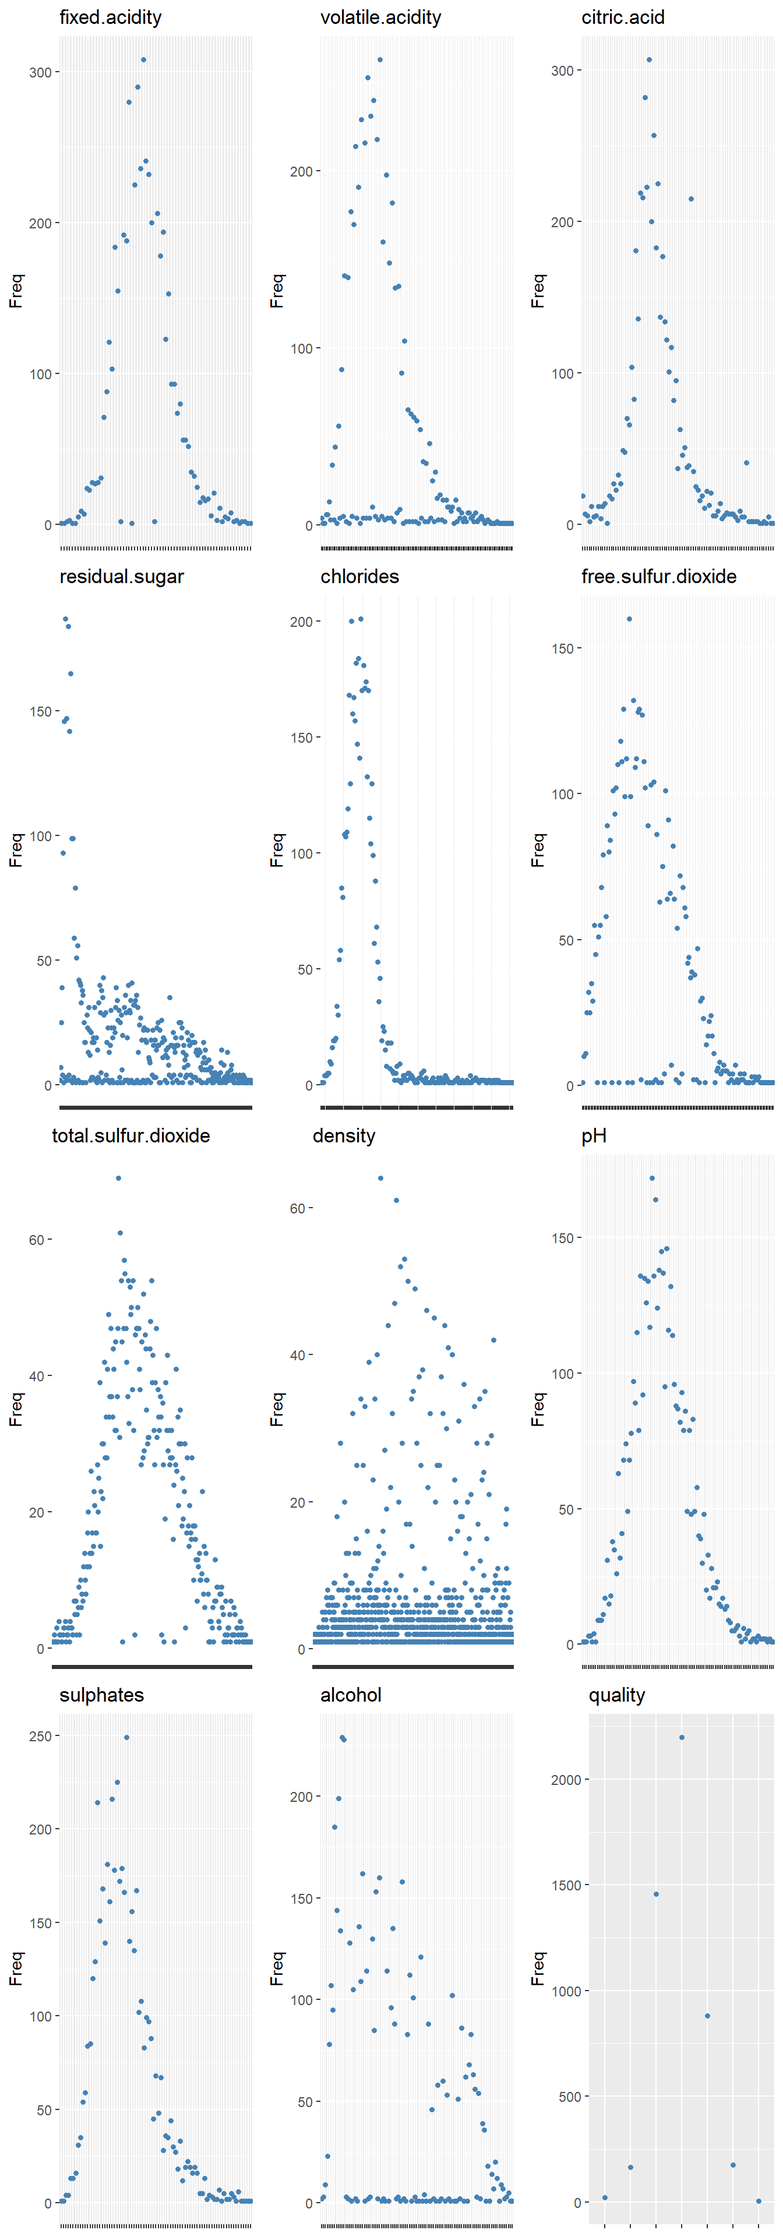
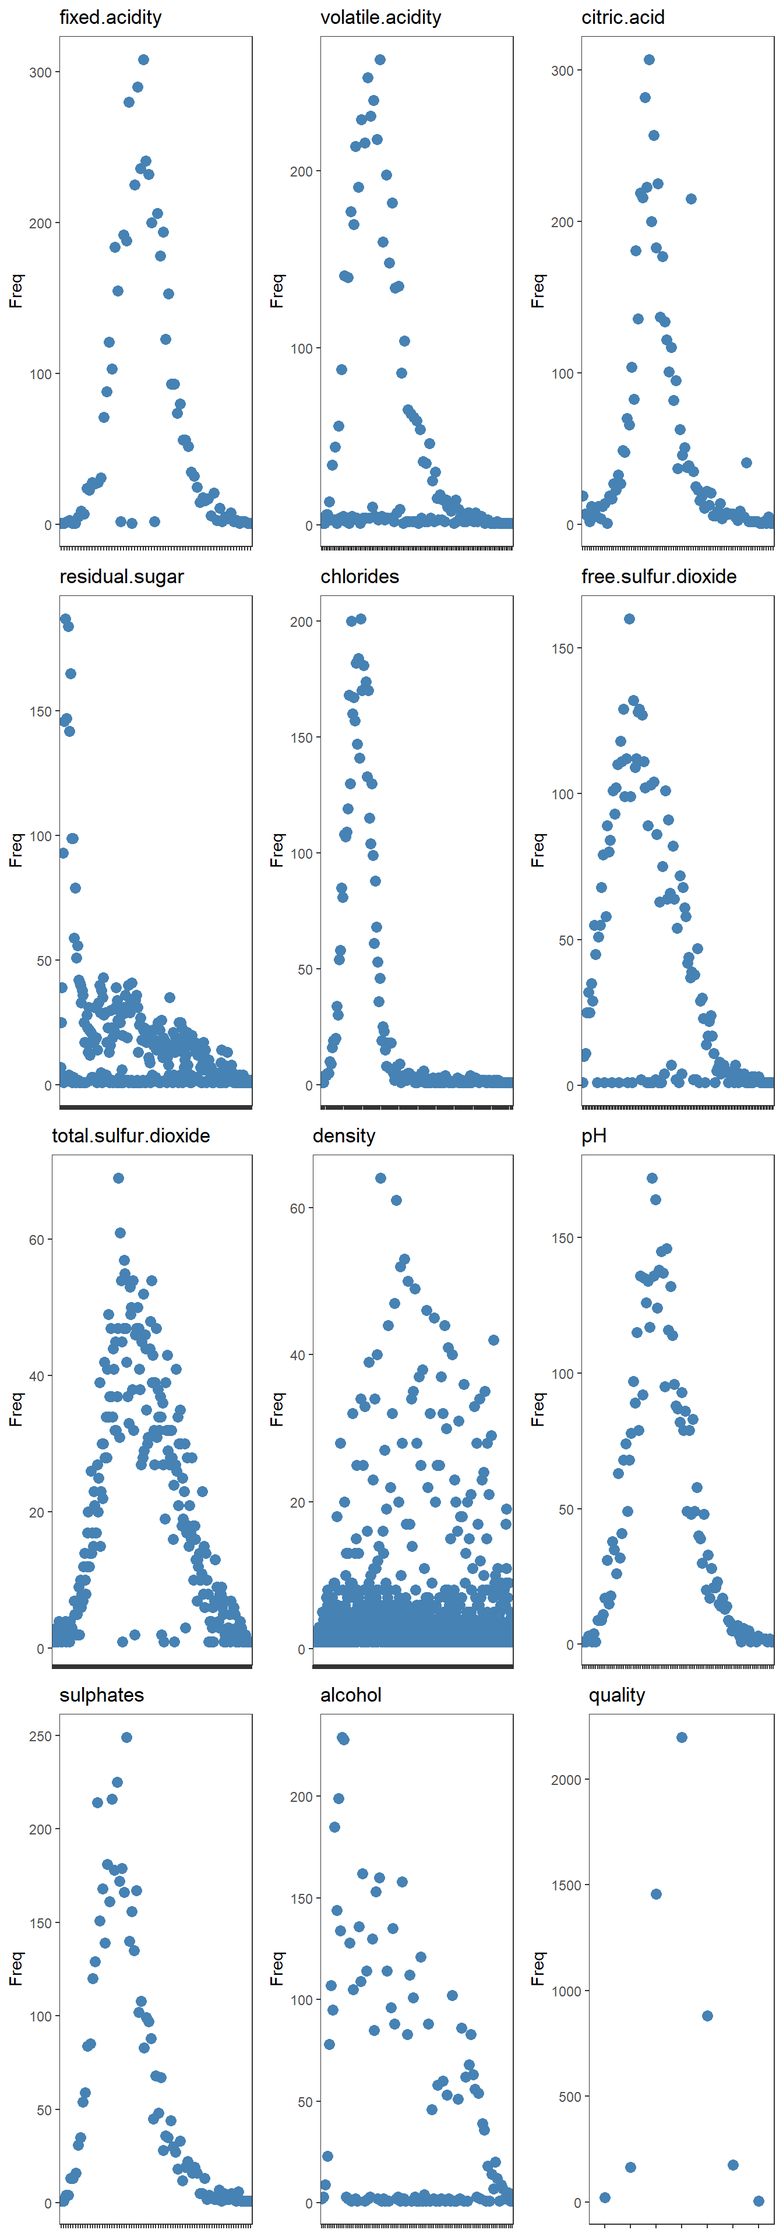
update analysis

diff --git a/_site/src/analysis.html b/_site/src/analysis.html
@@ -504,15 +504,17 @@ pre > code.sourceCode > span > a:first-child::before { text-decoration: underlin
 <span id="cb18-5"><a href="#cb18-5" aria-hidden="true" tabindex="-1"></a><span class="cf">for</span>(i <span class="cf">in</span> <span class="dv">1</span><span class="sc">:</span><span class="fu">ncol</span>(wine.data)) {</span>
 <span id="cb18-6"><a href="#cb18-6" aria-hidden="true" tabindex="-1"></a>  gg <span class="ot">&lt;-</span> <span class="fu">ggplot</span>(<span class="at">data =</span> <span class="fu">as.data.frame</span>(<span class="fu">table</span>(wine.data[, i])),</span>
 <span id="cb18-7"><a href="#cb18-7" aria-hidden="true" tabindex="-1"></a>               <span class="fu">aes</span>(<span class="at">x =</span> Var1, <span class="at">y =</span> Freq)) <span class="sc">+</span></span>
-<span id="cb18-8"><a href="#cb18-8" aria-hidden="true" tabindex="-1"></a>    <span class="fu">geom_point</span>(<span class="at">shape =</span> <span class="dv">20</span>, <span class="at">size =</span> <span class="dv">2</span>, <span class="at">color =</span> <span class="st">"steelblue"</span>) <span class="sc">+</span></span>
+<span id="cb18-8"><a href="#cb18-8" aria-hidden="true" tabindex="-1"></a>    <span class="fu">geom_point</span>(<span class="at">size =</span> <span class="dv">3</span>, <span class="at">color =</span> <span class="st">"steelblue"</span>) <span class="sc">+</span></span>
 <span id="cb18-9"><a href="#cb18-9" aria-hidden="true" tabindex="-1"></a>    <span class="fu">ggtitle</span>(<span class="fu">colnames</span>(wine.data)[i]) <span class="sc">+</span></span>
-<span id="cb18-10"><a href="#cb18-10" aria-hidden="true" tabindex="-1"></a>    <span class="fu">theme</span>(<span class="at">axis.text.x =</span> <span class="fu">element_blank</span>(), </span>
-<span id="cb18-11"><a href="#cb18-11" aria-hidden="true" tabindex="-1"></a>          <span class="at">axis.title.x =</span> <span class="fu">element_blank</span>())</span>
-<span id="cb18-12"><a href="#cb18-12" aria-hidden="true" tabindex="-1"></a>  gg_list[[i]] <span class="ot">&lt;-</span> gg</span>
-<span id="cb18-13"><a href="#cb18-13" aria-hidden="true" tabindex="-1"></a>}</span>
-<span id="cb18-14"><a href="#cb18-14" aria-hidden="true" tabindex="-1"></a></span>
-<span id="cb18-15"><a href="#cb18-15" aria-hidden="true" tabindex="-1"></a><span class="co"># combine ggplot objects using ggarrange</span></span>
-<span id="cb18-16"><a href="#cb18-16" aria-hidden="true" tabindex="-1"></a><span class="fu">ggarrange</span>(<span class="at">plotlist =</span> gg_list, <span class="at">ncol =</span> <span class="dv">3</span>, <span class="at">nrow =</span> <span class="dv">4</span>)</span></code><button title="Copy to Clipboard" class="code-copy-button"><i class="bi"></i></button></pre></div>
+<span id="cb18-10"><a href="#cb18-10" aria-hidden="true" tabindex="-1"></a>    <span class="fu">theme_bw</span>()<span class="sc">+</span></span>
+<span id="cb18-11"><a href="#cb18-11" aria-hidden="true" tabindex="-1"></a>    <span class="fu">theme</span>(<span class="at">panel.grid =</span> <span class="fu">element_blank</span>(),</span>
+<span id="cb18-12"><a href="#cb18-12" aria-hidden="true" tabindex="-1"></a>          <span class="at">axis.text.x =</span> <span class="fu">element_blank</span>(), </span>
+<span id="cb18-13"><a href="#cb18-13" aria-hidden="true" tabindex="-1"></a>          <span class="at">axis.title.x =</span> <span class="fu">element_blank</span>())</span>
+<span id="cb18-14"><a href="#cb18-14" aria-hidden="true" tabindex="-1"></a>  gg_list[[i]] <span class="ot">&lt;-</span> gg</span>
+<span id="cb18-15"><a href="#cb18-15" aria-hidden="true" tabindex="-1"></a>}</span>
+<span id="cb18-16"><a href="#cb18-16" aria-hidden="true" tabindex="-1"></a></span>
+<span id="cb18-17"><a href="#cb18-17" aria-hidden="true" tabindex="-1"></a><span class="co"># combine ggplot objects using ggarrange</span></span>
+<span id="cb18-18"><a href="#cb18-18" aria-hidden="true" tabindex="-1"></a><span class="fu">ggarrange</span>(<span class="at">plotlist =</span> gg_list, <span class="at">ncol =</span> <span class="dv">3</span>, <span class="at">nrow =</span> <span class="dv">4</span>)</span></code><button title="Copy to Clipboard" class="code-copy-button"><i class="bi"></i></button></pre></div>
 </details>
 <div class="cell-output-display">
 <div class="quarto-figure quarto-figure-center">
@@ -1152,59 +1154,61 @@ window.document.addEventListener("DOMContentLoaded", function (event) {
 <span id="cb22-153"><a href="#cb22-153" aria-hidden="true" tabindex="-1"></a><span class="cf">for</span>(i <span class="cf">in</span> <span class="dv">1</span><span class="sc">:</span><span class="fu">ncol</span>(wine.data)) {</span>
 <span id="cb22-154"><a href="#cb22-154" aria-hidden="true" tabindex="-1"></a>  gg <span class="ot">&lt;-</span> <span class="fu">ggplot</span>(<span class="at">data =</span> <span class="fu">as.data.frame</span>(<span class="fu">table</span>(wine.data[, i])),</span>
 <span id="cb22-155"><a href="#cb22-155" aria-hidden="true" tabindex="-1"></a>               <span class="fu">aes</span>(<span class="at">x =</span> Var1, <span class="at">y =</span> Freq)) <span class="sc">+</span></span>
-<span id="cb22-156"><a href="#cb22-156" aria-hidden="true" tabindex="-1"></a>    <span class="fu">geom_point</span>(<span class="at">shape =</span> <span class="dv">20</span>, <span class="at">size =</span> <span class="dv">2</span>, <span class="at">color =</span> <span class="st">"steelblue"</span>) <span class="sc">+</span></span>
+<span id="cb22-156"><a href="#cb22-156" aria-hidden="true" tabindex="-1"></a>    <span class="fu">geom_point</span>(<span class="at">size =</span> <span class="dv">3</span>, <span class="at">color =</span> <span class="st">"steelblue"</span>) <span class="sc">+</span></span>
 <span id="cb22-157"><a href="#cb22-157" aria-hidden="true" tabindex="-1"></a>    <span class="fu">ggtitle</span>(<span class="fu">colnames</span>(wine.data)[i]) <span class="sc">+</span></span>
-<span id="cb22-158"><a href="#cb22-158" aria-hidden="true" tabindex="-1"></a>    <span class="fu">theme</span>(<span class="at">axis.text.x =</span> <span class="fu">element_blank</span>(), </span>
-<span id="cb22-159"><a href="#cb22-159" aria-hidden="true" tabindex="-1"></a>          <span class="at">axis.title.x =</span> <span class="fu">element_blank</span>())</span>
-<span id="cb22-160"><a href="#cb22-160" aria-hidden="true" tabindex="-1"></a>  gg_list[[i]] <span class="ot">&lt;-</span> gg</span>
-<span id="cb22-161"><a href="#cb22-161" aria-hidden="true" tabindex="-1"></a>}</span>
-<span id="cb22-162"><a href="#cb22-162" aria-hidden="true" tabindex="-1"></a></span>
-<span id="cb22-163"><a href="#cb22-163" aria-hidden="true" tabindex="-1"></a><span class="co"># combine ggplot objects using ggarrange</span></span>
-<span id="cb22-164"><a href="#cb22-164" aria-hidden="true" tabindex="-1"></a><span class="fu">ggarrange</span>(<span class="at">plotlist =</span> gg_list, <span class="at">ncol =</span> <span class="dv">3</span>, <span class="at">nrow =</span> <span class="dv">4</span>)</span>
-<span id="cb22-165"><a href="#cb22-165" aria-hidden="true" tabindex="-1"></a><span class="in">```</span></span>
-<span id="cb22-166"><a href="#cb22-166" aria-hidden="true" tabindex="-1"></a></span>
-<span id="cb22-167"><a href="#cb22-167" aria-hidden="true" tabindex="-1"></a></span>
-<span id="cb22-168"><a href="#cb22-168" aria-hidden="true" tabindex="-1"></a><span class="in">```{r, echo=FALSE}</span></span>
-<span id="cb22-169"><a href="#cb22-169" aria-hidden="true" tabindex="-1"></a><span class="co"># Remove unnecessary variables</span></span>
-<span id="cb22-170"><a href="#cb22-170" aria-hidden="true" tabindex="-1"></a><span class="fu">remove</span>(grid_arr)</span>
-<span id="cb22-171"><a href="#cb22-171" aria-hidden="true" tabindex="-1"></a><span class="fu">remove</span>(plt)</span>
-<span id="cb22-172"><a href="#cb22-172" aria-hidden="true" tabindex="-1"></a><span class="fu">remove</span>(i)</span>
-<span id="cb22-173"><a href="#cb22-173" aria-hidden="true" tabindex="-1"></a><span class="fu">remove</span>(num_plots)</span>
-<span id="cb22-174"><a href="#cb22-174" aria-hidden="true" tabindex="-1"></a><span class="fu">remove</span>(num_rows)</span>
-<span id="cb22-175"><a href="#cb22-175" aria-hidden="true" tabindex="-1"></a><span class="in">```</span></span>
-<span id="cb22-176"><a href="#cb22-176" aria-hidden="true" tabindex="-1"></a></span>
-<span id="cb22-177"><a href="#cb22-177" aria-hidden="true" tabindex="-1"></a><span class="fu">## Data Relationships</span></span>
-<span id="cb22-178"><a href="#cb22-178" aria-hidden="true" tabindex="-1"></a><span class="in">```{r relation_plot, fig.width=10, fig.height=5, message=FALSE}</span></span>
-<span id="cb22-179"><a href="#cb22-179" aria-hidden="true" tabindex="-1"></a>reshape2<span class="sc">::</span><span class="fu">melt</span>(wine.data_cleaned[, <span class="dv">1</span><span class="sc">:</span><span class="dv">12</span>], <span class="st">"good"</span>) <span class="sc">%&gt;%</span> </span>
-<span id="cb22-180"><a href="#cb22-180" aria-hidden="true" tabindex="-1"></a>  <span class="fu">ggplot</span>(<span class="fu">aes</span>(value, good, <span class="at">color =</span> variable)) <span class="sc">+</span>  </span>
-<span id="cb22-181"><a href="#cb22-181" aria-hidden="true" tabindex="-1"></a>  <span class="fu">geom_point</span>() <span class="sc">+</span> </span>
-<span id="cb22-182"><a href="#cb22-182" aria-hidden="true" tabindex="-1"></a>  <span class="fu">geom_smooth</span>(<span class="fu">aes</span>(value, good, <span class="at">colour=</span>variable), <span class="at">method=</span>lm, <span class="at">se=</span><span class="cn">FALSE</span>)<span class="sc">+</span></span>
-<span id="cb22-183"><a href="#cb22-183" aria-hidden="true" tabindex="-1"></a>  <span class="fu">facet_wrap</span>(.<span class="sc">~</span>variable, <span class="at">scales =</span> <span class="st">"free"</span>)</span>
-<span id="cb22-184"><a href="#cb22-184" aria-hidden="true" tabindex="-1"></a></span>
-<span id="cb22-185"><a href="#cb22-185" aria-hidden="true" tabindex="-1"></a><span class="co"># Collinearity between Attributes</span></span>
-<span id="cb22-186"><a href="#cb22-186" aria-hidden="true" tabindex="-1"></a><span class="fu">cor</span>(wine.data_cleaned) <span class="sc">%&gt;%</span> </span>
-<span id="cb22-187"><a href="#cb22-187" aria-hidden="true" tabindex="-1"></a>  corrplot<span class="sc">::</span><span class="fu">corrplot</span>(<span class="at">method =</span> <span class="st">'number'</span>,  <span class="at">type =</span> <span class="st">"lower"</span>, <span class="at">tl.col =</span> <span class="st">"steelblue"</span>, <span class="at">number.cex =</span> <span class="fl">0.5</span>)</span>
-<span id="cb22-188"><a href="#cb22-188" aria-hidden="true" tabindex="-1"></a><span class="in">```</span></span>
-<span id="cb22-189"><a href="#cb22-189" aria-hidden="true" tabindex="-1"></a></span>
-<span id="cb22-190"><a href="#cb22-190" aria-hidden="true" tabindex="-1"></a><span class="fu">## Data Split</span></span>
-<span id="cb22-191"><a href="#cb22-191" aria-hidden="true" tabindex="-1"></a><span class="in">```{r data_split}</span></span>
-<span id="cb22-192"><a href="#cb22-192" aria-hidden="true" tabindex="-1"></a><span class="fu">set.seed</span>(<span class="dv">1234</span>)</span>
-<span id="cb22-193"><a href="#cb22-193" aria-hidden="true" tabindex="-1"></a><span class="co"># Splitting the dataset into train and test (7/10th for train remaining for test)</span></span>
-<span id="cb22-194"><a href="#cb22-194" aria-hidden="true" tabindex="-1"></a>inTrain <span class="ot">&lt;-</span> caret<span class="sc">::</span><span class="fu">createDataPartition</span>(wine.data_cleaned<span class="sc">$</span>good, <span class="at">p =</span> <span class="dv">7</span><span class="sc">/</span><span class="dv">10</span>, <span class="at">list =</span> F)</span>
-<span id="cb22-195"><a href="#cb22-195" aria-hidden="true" tabindex="-1"></a>train <span class="ot">&lt;-</span> wine.data_cleaned[inTrain,]</span>
-<span id="cb22-196"><a href="#cb22-196" aria-hidden="true" tabindex="-1"></a>test  <span class="ot">&lt;-</span> wine.data_cleaned[<span class="sc">-</span>inTrain,]</span>
-<span id="cb22-197"><a href="#cb22-197" aria-hidden="true" tabindex="-1"></a></span>
-<span id="cb22-198"><a href="#cb22-198" aria-hidden="true" tabindex="-1"></a></span>
-<span id="cb22-199"><a href="#cb22-199" aria-hidden="true" tabindex="-1"></a><span class="co"># Convert the outcome variable to a factor with two levels</span></span>
-<span id="cb22-200"><a href="#cb22-200" aria-hidden="true" tabindex="-1"></a>train<span class="sc">$</span>good <span class="ot">&lt;-</span> <span class="fu">as.factor</span>(train<span class="sc">$</span>good)</span>
-<span id="cb22-201"><a href="#cb22-201" aria-hidden="true" tabindex="-1"></a>test<span class="sc">$</span>good <span class="ot">&lt;-</span> <span class="fu">as.factor</span>(test<span class="sc">$</span>good)</span>
-<span id="cb22-202"><a href="#cb22-202" aria-hidden="true" tabindex="-1"></a></span>
-<span id="cb22-203"><a href="#cb22-203" aria-hidden="true" tabindex="-1"></a><span class="co"># Save data for building models in the next step</span></span>
-<span id="cb22-204"><a href="#cb22-204" aria-hidden="true" tabindex="-1"></a><span class="fu">save</span>(wine.data, <span class="at">file =</span> <span class="st">"dataset</span><span class="sc">\\</span><span class="st">wine.data.Rdata"</span>)</span>
-<span id="cb22-205"><a href="#cb22-205" aria-hidden="true" tabindex="-1"></a><span class="fu">save</span>(wine.data_cleaned, <span class="at">file =</span> <span class="st">"dataset</span><span class="sc">\\</span><span class="st">wine.data_cleaned.Rdata"</span>)</span>
-<span id="cb22-206"><a href="#cb22-206" aria-hidden="true" tabindex="-1"></a><span class="fu">save</span>(train, <span class="at">file =</span> <span class="st">"dataset</span><span class="sc">\\</span><span class="st">train.Rdata"</span>)</span>
-<span id="cb22-207"><a href="#cb22-207" aria-hidden="true" tabindex="-1"></a><span class="fu">save</span>(test, <span class="at">file =</span> <span class="st">"dataset</span><span class="sc">\\</span><span class="st">test.Rdata"</span>)</span>
-<span id="cb22-208"><a href="#cb22-208" aria-hidden="true" tabindex="-1"></a><span class="in">```</span></span></code><button title="Copy to Clipboard" class="code-copy-button"><i class="bi"></i></button></pre></div>
+<span id="cb22-158"><a href="#cb22-158" aria-hidden="true" tabindex="-1"></a>    <span class="fu">theme_bw</span>()<span class="sc">+</span></span>
+<span id="cb22-159"><a href="#cb22-159" aria-hidden="true" tabindex="-1"></a>    <span class="fu">theme</span>(<span class="at">panel.grid =</span> <span class="fu">element_blank</span>(),</span>
+<span id="cb22-160"><a href="#cb22-160" aria-hidden="true" tabindex="-1"></a>          <span class="at">axis.text.x =</span> <span class="fu">element_blank</span>(), </span>
+<span id="cb22-161"><a href="#cb22-161" aria-hidden="true" tabindex="-1"></a>          <span class="at">axis.title.x =</span> <span class="fu">element_blank</span>())</span>
+<span id="cb22-162"><a href="#cb22-162" aria-hidden="true" tabindex="-1"></a>  gg_list[[i]] <span class="ot">&lt;-</span> gg</span>
+<span id="cb22-163"><a href="#cb22-163" aria-hidden="true" tabindex="-1"></a>}</span>
+<span id="cb22-164"><a href="#cb22-164" aria-hidden="true" tabindex="-1"></a></span>
+<span id="cb22-165"><a href="#cb22-165" aria-hidden="true" tabindex="-1"></a><span class="co"># combine ggplot objects using ggarrange</span></span>
+<span id="cb22-166"><a href="#cb22-166" aria-hidden="true" tabindex="-1"></a><span class="fu">ggarrange</span>(<span class="at">plotlist =</span> gg_list, <span class="at">ncol =</span> <span class="dv">3</span>, <span class="at">nrow =</span> <span class="dv">4</span>)</span>
+<span id="cb22-167"><a href="#cb22-167" aria-hidden="true" tabindex="-1"></a><span class="in">```</span></span>
+<span id="cb22-168"><a href="#cb22-168" aria-hidden="true" tabindex="-1"></a></span>
+<span id="cb22-169"><a href="#cb22-169" aria-hidden="true" tabindex="-1"></a></span>
+<span id="cb22-170"><a href="#cb22-170" aria-hidden="true" tabindex="-1"></a><span class="in">```{r, echo=FALSE}</span></span>
+<span id="cb22-171"><a href="#cb22-171" aria-hidden="true" tabindex="-1"></a><span class="co"># Remove unnecessary variables</span></span>
+<span id="cb22-172"><a href="#cb22-172" aria-hidden="true" tabindex="-1"></a><span class="fu">remove</span>(grid_arr)</span>
+<span id="cb22-173"><a href="#cb22-173" aria-hidden="true" tabindex="-1"></a><span class="fu">remove</span>(plt)</span>
+<span id="cb22-174"><a href="#cb22-174" aria-hidden="true" tabindex="-1"></a><span class="fu">remove</span>(i)</span>
+<span id="cb22-175"><a href="#cb22-175" aria-hidden="true" tabindex="-1"></a><span class="fu">remove</span>(num_plots)</span>
+<span id="cb22-176"><a href="#cb22-176" aria-hidden="true" tabindex="-1"></a><span class="fu">remove</span>(num_rows)</span>
+<span id="cb22-177"><a href="#cb22-177" aria-hidden="true" tabindex="-1"></a><span class="in">```</span></span>
+<span id="cb22-178"><a href="#cb22-178" aria-hidden="true" tabindex="-1"></a></span>
+<span id="cb22-179"><a href="#cb22-179" aria-hidden="true" tabindex="-1"></a><span class="fu">## Data Relationships</span></span>
+<span id="cb22-180"><a href="#cb22-180" aria-hidden="true" tabindex="-1"></a><span class="in">```{r relation_plot, fig.width=10, fig.height=5, message=FALSE}</span></span>
+<span id="cb22-181"><a href="#cb22-181" aria-hidden="true" tabindex="-1"></a>reshape2<span class="sc">::</span><span class="fu">melt</span>(wine.data_cleaned[, <span class="dv">1</span><span class="sc">:</span><span class="dv">12</span>], <span class="st">"good"</span>) <span class="sc">%&gt;%</span> </span>
+<span id="cb22-182"><a href="#cb22-182" aria-hidden="true" tabindex="-1"></a>  <span class="fu">ggplot</span>(<span class="fu">aes</span>(value, good, <span class="at">color =</span> variable)) <span class="sc">+</span>  </span>
+<span id="cb22-183"><a href="#cb22-183" aria-hidden="true" tabindex="-1"></a>  <span class="fu">geom_point</span>() <span class="sc">+</span> </span>
+<span id="cb22-184"><a href="#cb22-184" aria-hidden="true" tabindex="-1"></a>  <span class="fu">geom_smooth</span>(<span class="fu">aes</span>(value, good, <span class="at">colour=</span>variable), <span class="at">method=</span>lm, <span class="at">se=</span><span class="cn">FALSE</span>)<span class="sc">+</span></span>
+<span id="cb22-185"><a href="#cb22-185" aria-hidden="true" tabindex="-1"></a>  <span class="fu">facet_wrap</span>(.<span class="sc">~</span>variable, <span class="at">scales =</span> <span class="st">"free"</span>)</span>
+<span id="cb22-186"><a href="#cb22-186" aria-hidden="true" tabindex="-1"></a></span>
+<span id="cb22-187"><a href="#cb22-187" aria-hidden="true" tabindex="-1"></a><span class="co"># Collinearity between Attributes</span></span>
+<span id="cb22-188"><a href="#cb22-188" aria-hidden="true" tabindex="-1"></a><span class="fu">cor</span>(wine.data_cleaned) <span class="sc">%&gt;%</span> </span>
+<span id="cb22-189"><a href="#cb22-189" aria-hidden="true" tabindex="-1"></a>  corrplot<span class="sc">::</span><span class="fu">corrplot</span>(<span class="at">method =</span> <span class="st">'number'</span>,  <span class="at">type =</span> <span class="st">"lower"</span>, <span class="at">tl.col =</span> <span class="st">"steelblue"</span>, <span class="at">number.cex =</span> <span class="fl">0.5</span>)</span>
+<span id="cb22-190"><a href="#cb22-190" aria-hidden="true" tabindex="-1"></a><span class="in">```</span></span>
+<span id="cb22-191"><a href="#cb22-191" aria-hidden="true" tabindex="-1"></a></span>
+<span id="cb22-192"><a href="#cb22-192" aria-hidden="true" tabindex="-1"></a><span class="fu">## Data Split</span></span>
+<span id="cb22-193"><a href="#cb22-193" aria-hidden="true" tabindex="-1"></a><span class="in">```{r data_split}</span></span>
+<span id="cb22-194"><a href="#cb22-194" aria-hidden="true" tabindex="-1"></a><span class="fu">set.seed</span>(<span class="dv">1234</span>)</span>
+<span id="cb22-195"><a href="#cb22-195" aria-hidden="true" tabindex="-1"></a><span class="co"># Splitting the dataset into train and test (7/10th for train remaining for test)</span></span>
+<span id="cb22-196"><a href="#cb22-196" aria-hidden="true" tabindex="-1"></a>inTrain <span class="ot">&lt;-</span> caret<span class="sc">::</span><span class="fu">createDataPartition</span>(wine.data_cleaned<span class="sc">$</span>good, <span class="at">p =</span> <span class="dv">7</span><span class="sc">/</span><span class="dv">10</span>, <span class="at">list =</span> F)</span>
+<span id="cb22-197"><a href="#cb22-197" aria-hidden="true" tabindex="-1"></a>train <span class="ot">&lt;-</span> wine.data_cleaned[inTrain,]</span>
+<span id="cb22-198"><a href="#cb22-198" aria-hidden="true" tabindex="-1"></a>test  <span class="ot">&lt;-</span> wine.data_cleaned[<span class="sc">-</span>inTrain,]</span>
+<span id="cb22-199"><a href="#cb22-199" aria-hidden="true" tabindex="-1"></a></span>
+<span id="cb22-200"><a href="#cb22-200" aria-hidden="true" tabindex="-1"></a></span>
+<span id="cb22-201"><a href="#cb22-201" aria-hidden="true" tabindex="-1"></a><span class="co"># Convert the outcome variable to a factor with two levels</span></span>
+<span id="cb22-202"><a href="#cb22-202" aria-hidden="true" tabindex="-1"></a>train<span class="sc">$</span>good <span class="ot">&lt;-</span> <span class="fu">as.factor</span>(train<span class="sc">$</span>good)</span>
+<span id="cb22-203"><a href="#cb22-203" aria-hidden="true" tabindex="-1"></a>test<span class="sc">$</span>good <span class="ot">&lt;-</span> <span class="fu">as.factor</span>(test<span class="sc">$</span>good)</span>
+<span id="cb22-204"><a href="#cb22-204" aria-hidden="true" tabindex="-1"></a></span>
+<span id="cb22-205"><a href="#cb22-205" aria-hidden="true" tabindex="-1"></a><span class="co"># Save data for building models in the next step</span></span>
+<span id="cb22-206"><a href="#cb22-206" aria-hidden="true" tabindex="-1"></a><span class="fu">save</span>(wine.data, <span class="at">file =</span> <span class="st">"dataset</span><span class="sc">\\</span><span class="st">wine.data.Rdata"</span>)</span>
+<span id="cb22-207"><a href="#cb22-207" aria-hidden="true" tabindex="-1"></a><span class="fu">save</span>(wine.data_cleaned, <span class="at">file =</span> <span class="st">"dataset</span><span class="sc">\\</span><span class="st">wine.data_cleaned.Rdata"</span>)</span>
+<span id="cb22-208"><a href="#cb22-208" aria-hidden="true" tabindex="-1"></a><span class="fu">save</span>(train, <span class="at">file =</span> <span class="st">"dataset</span><span class="sc">\\</span><span class="st">train.Rdata"</span>)</span>
+<span id="cb22-209"><a href="#cb22-209" aria-hidden="true" tabindex="-1"></a><span class="fu">save</span>(test, <span class="at">file =</span> <span class="st">"dataset</span><span class="sc">\\</span><span class="st">test.Rdata"</span>)</span>
+<span id="cb22-210"><a href="#cb22-210" aria-hidden="true" tabindex="-1"></a><span class="in">```</span></span></code><button title="Copy to Clipboard" class="code-copy-button"><i class="bi"></i></button></pre></div>
 </div></div></div></div></div>
 </div> <!-- /content -->
 <footer class="footer">
